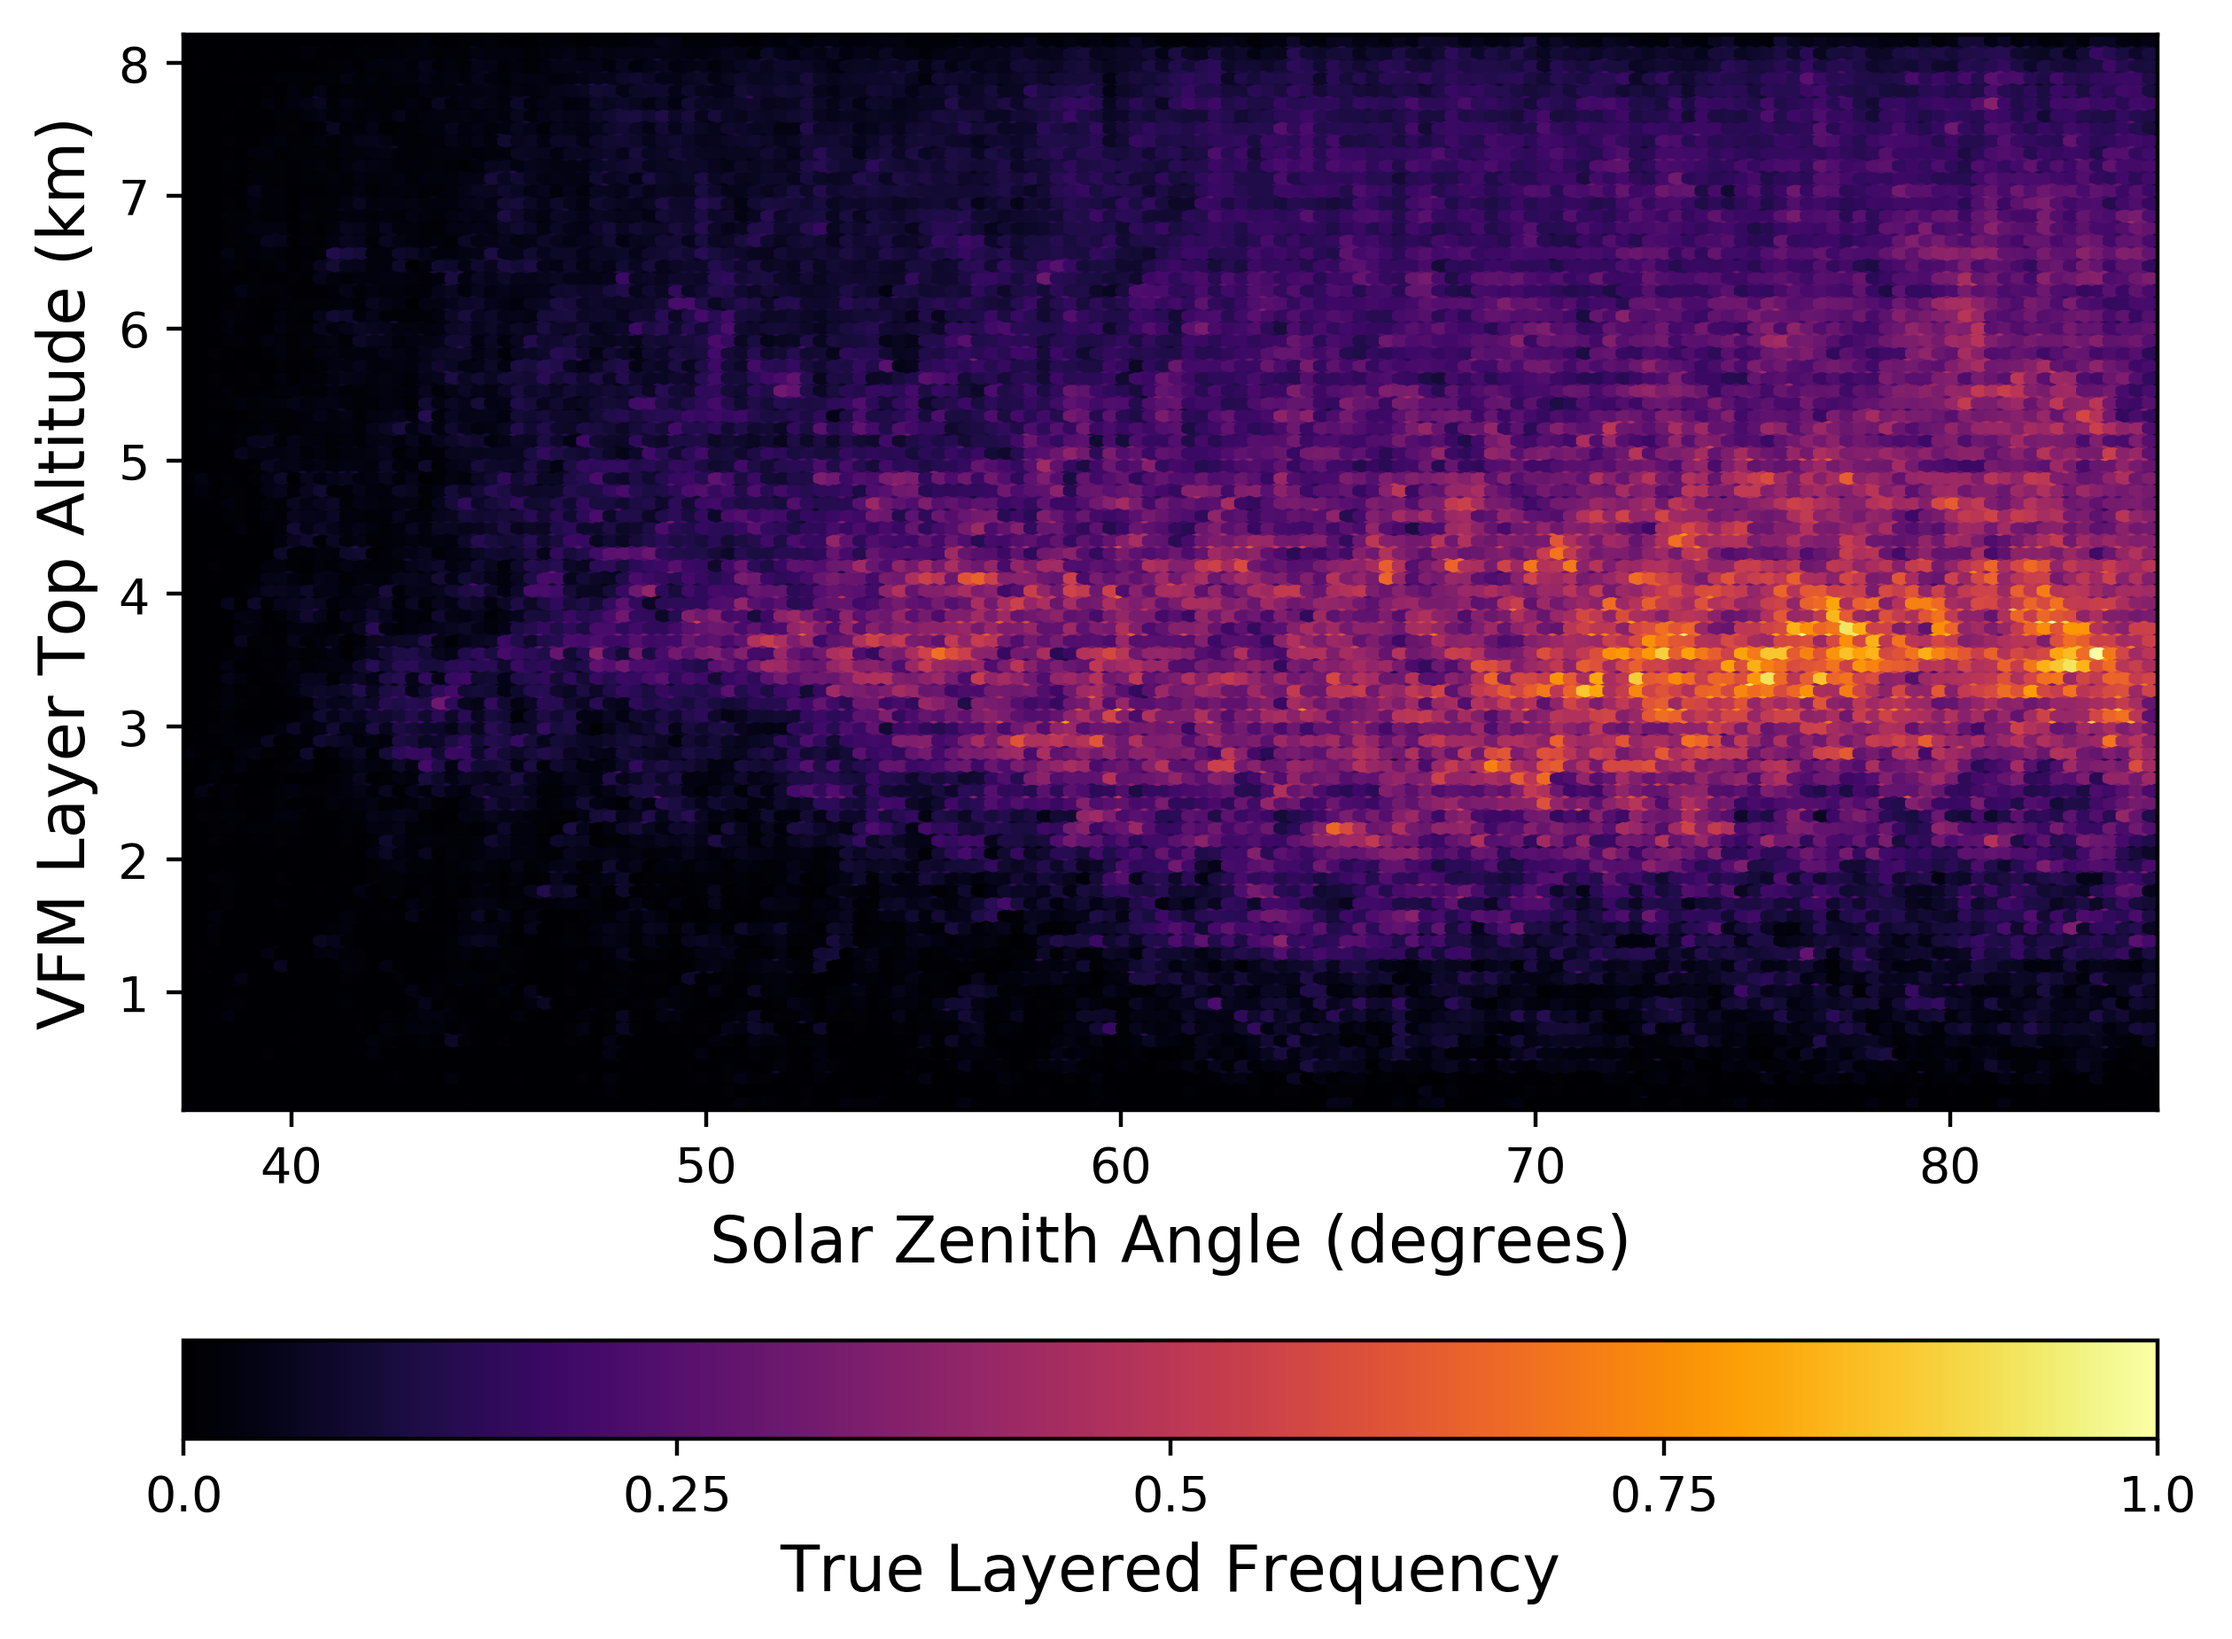
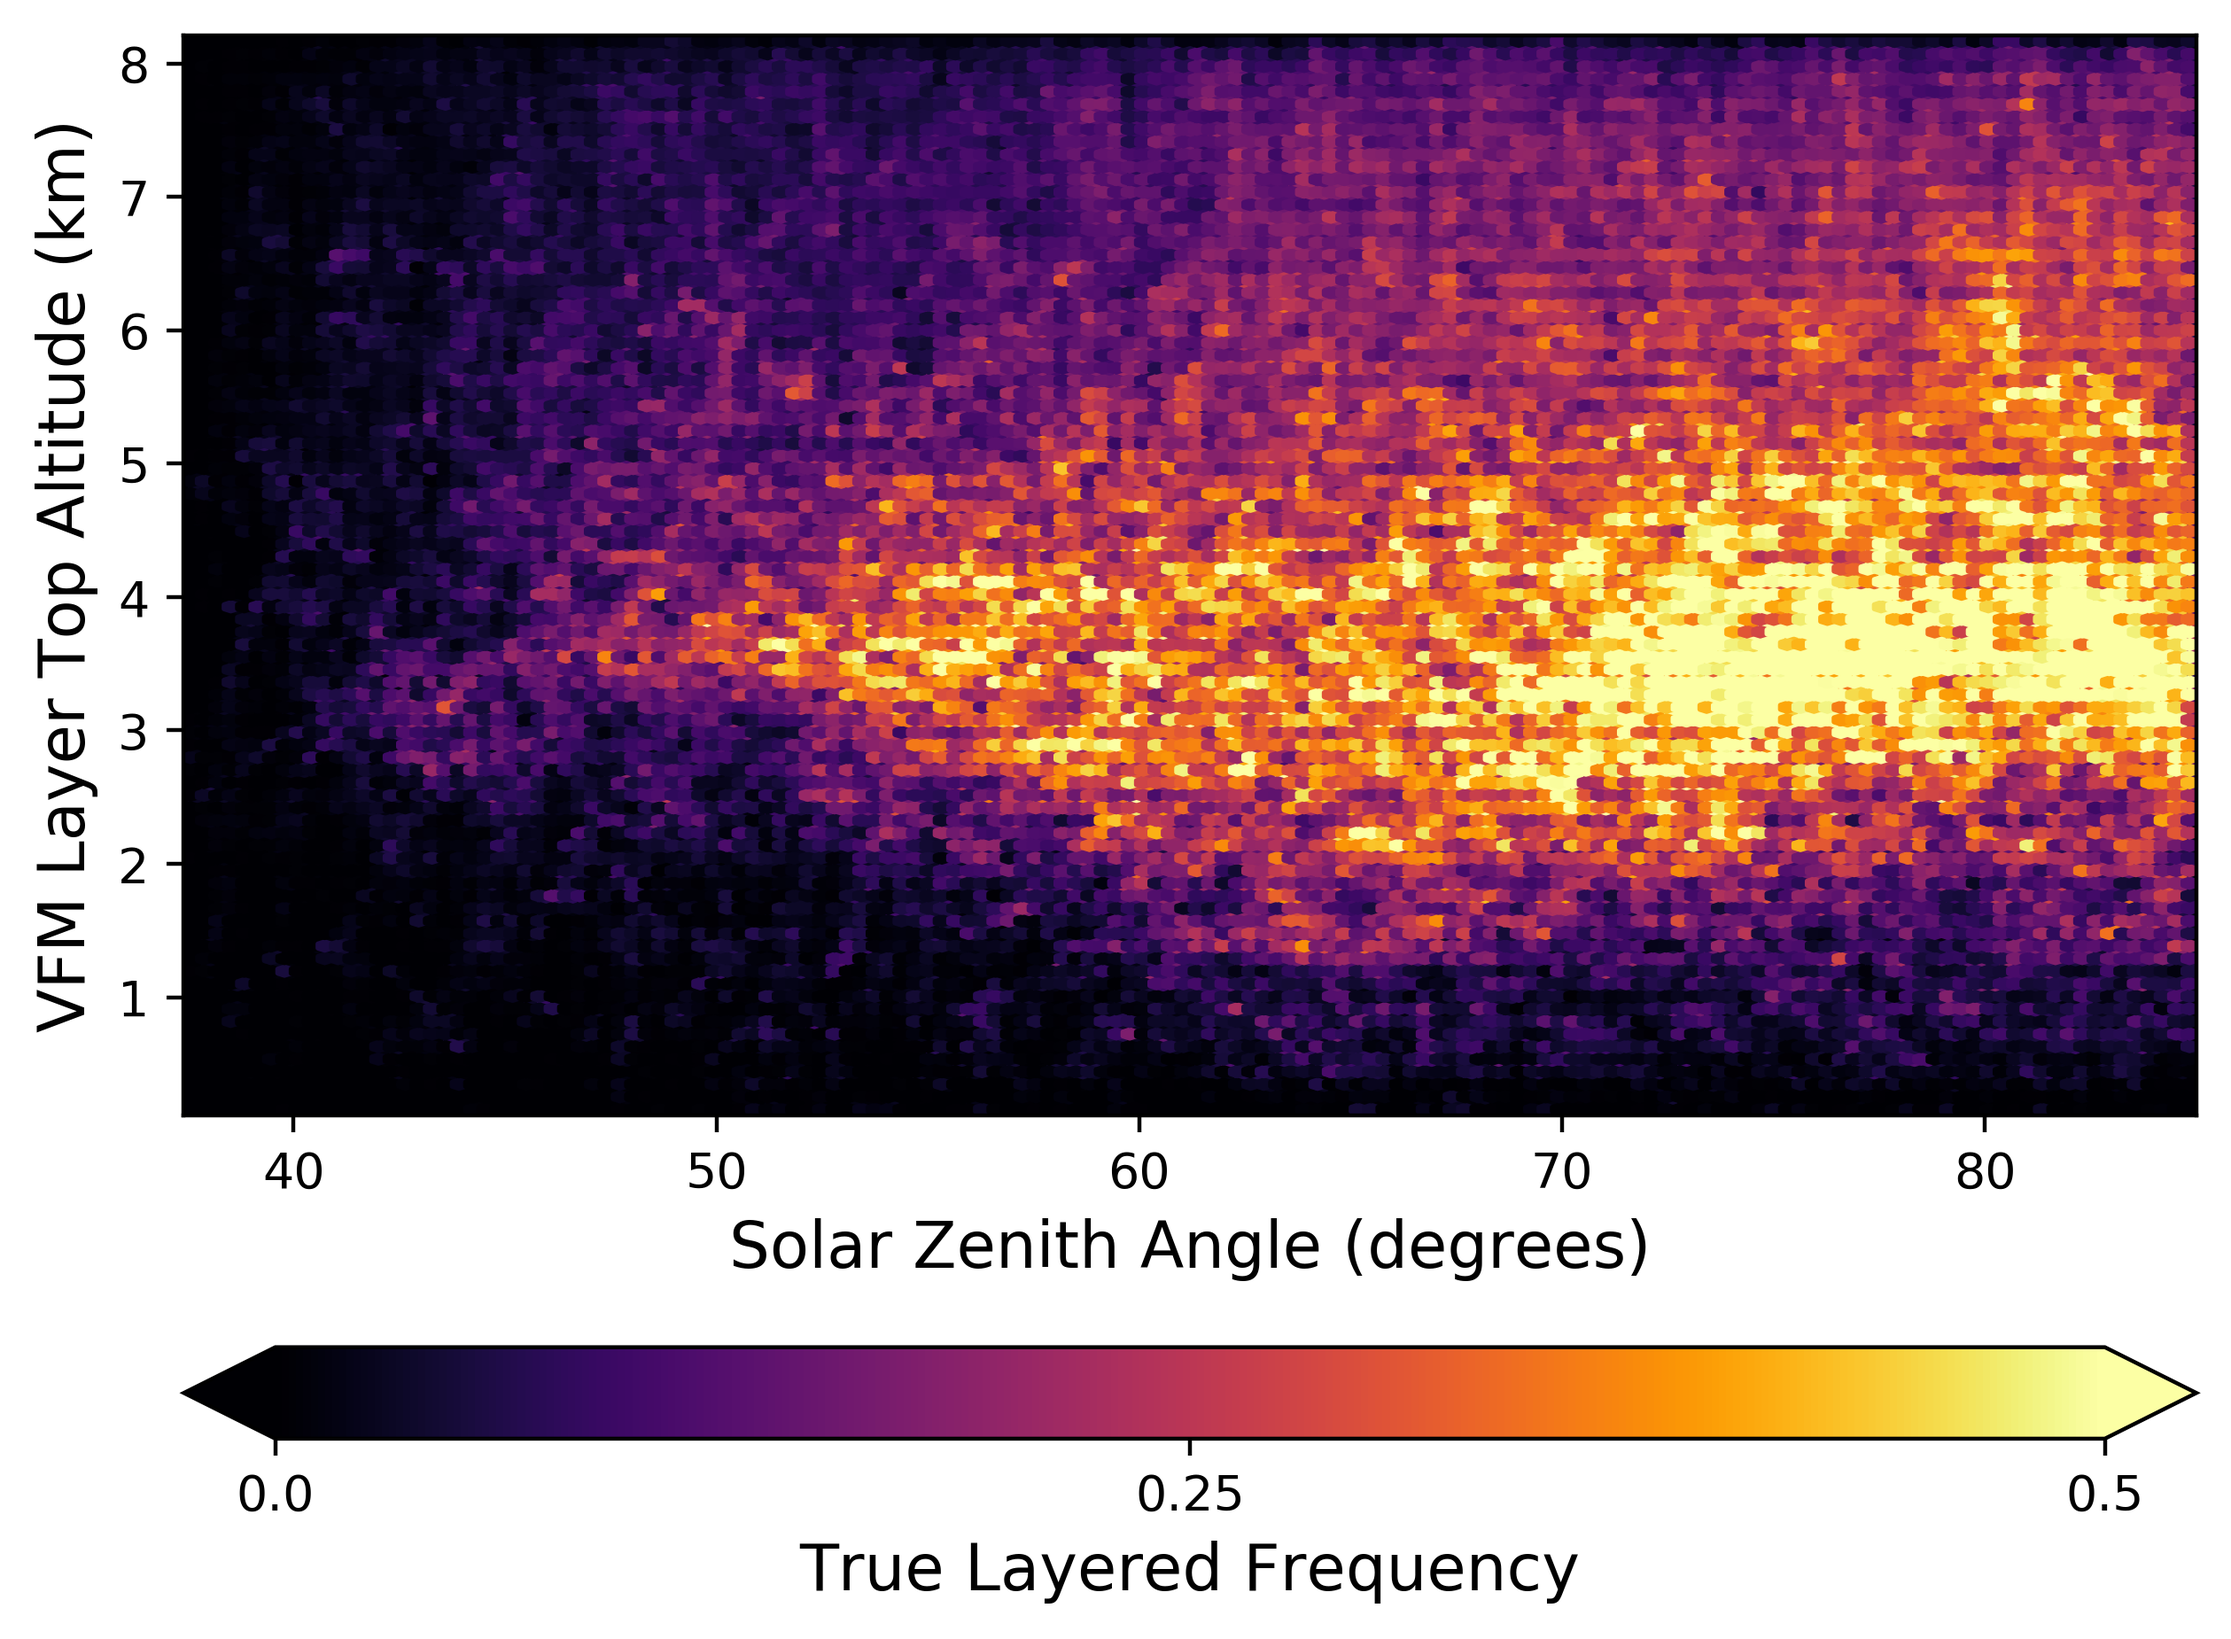
Various Figure Changes.
apparently 3 hours worth of stuff didn't save for some odd reason so I'm pushing it so it doesn't happen again

diff --git a/Task_4/frequencyPlot.py b/Task_4/frequencyPlot.py
@@ -15,53 +15,77 @@ import matplotlib.pyplot as plt
 
 data_path = '.\\Task_4\\'
 
-def openCSV(vd, x, y):
-    df = pd.read_csv(data_path+'\\csvs\\'+'cf_matrix_map_data_85bel_6-9.csv')
+def openCSV(x, y, vd='all', year=None, month=None):
+    df = pd.read_csv(data_path+'\\csvs\\'+'cf_matrix_map_data_85bel_2006-2009.csv')
+    df = df.drop(['day','time'],axis=1)
     
-    df = df.drop(['year', 'month','day','time','Longitude'],axis=1)
-    
-    vddf = df[df.Vd == vd]
+    vddf = df
+    if vd != 'all':
+        vddf = df[df.Vd == vd]
+        print('---VD HERE:', vddf)
+    if year:
+        vddf = vddf[vddf.year == year]
+        print('---YR HERE:', vddf)
+    if month:
+        vddf = vddf[vddf.month == month]
+        print('---MT HERE:', vddf)
    
     xdf = vddf[x].tolist()
     ydf = vddf[y].tolist()
     return xdf, ydf
 
-def sza_ta_falsePlot(vd, x, y):
-    xf, yf = openCSV(vd, x, y)
+def sza_ta_falsePlot(x, y, vd='all', year=None, month=None, gbox=False):
+    xf, yf = openCSV(x, y, vd, year, month)
 
     labels = {
         'SZA' : 'Solar Zenith Angle (degrees)',
         'Top_Alt' : 'VFM Layer Top Altitude (km)',
         'Latitude' : 'Latitude (degrees)',
+        'Longitude' : 'Longitude (degrees)',
+        'all' : 'Pixel Availability',
         'tc' : 'True Clear',
         'tl' : 'True Layered',
         'fl' : 'False Layered',
         'fc' : 'False Clear'
     }
-
+    
     fig, ax = plt.subplots()
     
-    hb2 = ax.hexbin(xf, yf, gridsize=150, cmap='inferno', alpha=0)
-    hb = ax.hexbin(xf, yf, gridsize=150, cmap='inferno', vmax=0.5*hb2.get_array().max())
-    ax.set(xlim=(min(xf), max(xf)), ylim=(min(yf), max(yf)))
+    fig.set_figheight(10)
+    fig.set_figwidth(8)
+
+
+    hb2 = ax.hexbin(xf, yf, gridsize=2000, cmap='inferno', alpha=0)
+    hb = ax.hexbin(xf, yf, gridsize=2000, cmap='inferno', vmax=0.5*hb2.get_array().max())
+    
+    if gbox: ax.set(xlim=(-11, -74), ylim=(60, 84))
+    else: ax.set(xlim=(min(xf), max(xf)), ylim=(min(yf), max(yf)))
     #ax.set_title("False-Clear Frequency", fontsize=18)
     
     #norm = plt.Normalize(0, hb.get_array().max())
     ax.set_ylabel(labels[y], fontsize=13)
     ax.set_xlabel(labels[x], fontsize=13)
-    cb = fig.colorbar(hb, orientation='horizontal', ax=ax)
+    cb = fig.colorbar(hb, orientation='horizontal', ax=ax, extend='both')
     cb.set_ticks(np.linspace(hb.get_array().min(), hb.get_array().max(), 5))
-    cb.set_ticklabels(np.linspace(0, 1, 5))
+    #cb.set_ticklabels(np.linspace(0, 1, 5))
+    cb.set_ticklabels(np.linspace(0, hb.get_array().max(), 5))
     cb.set_label(f'{labels[vd]} Frequency', fontsize=13)
     fig.tight_layout()
     
-    fig.savefig(f'./Task_4/pngs/frequencyPlot_{vd}_{x}_{y}', bbox_inches='tight', dpi=400)
+    #fig.savefig(f'./Task_4/pngs/frequencyPlot_{vd}_{x}_{y}test', bbox_inches='tight', dpi=400)
+    fig.savefig(f'./Task_4/pngs/freqplettesting', bbox_inches='tight', dpi=800)
 
 if __name__ == '__main__':
-    #sza_ta_falsePlot('fc', 'SZA', 'Top_Alt')
+    # sza_ta_falsePlot('fc', 'SZA', 'Top_Alt')
 
-    #sza_ta_falsePlot('tl', 'SZA', 'Top_Alt')
+    # sza_ta_falsePlot('tl', 'SZA', 'Top_Alt')
 
-    sza_ta_falsePlot('tc', 'SZA', 'Latitude')
+    # sza_ta_falsePlot('tc', 'SZA', 'Latitude')
 
-    #sza_ta_falsePlot('fl', 'SZA', 'Latitude')
+    # sza_ta_falsePlot('fl', 'SZA', 'Latitude')
+
+    sza_ta_falsePlot('Longitude', 'Latitude', vd='all', year=None, month=None, gbox=None)
+
+
+
+#TODO add elevation data

diff --git a/Task_4/ConfusionMatrix_SCM_vs_MLay.py b/Task_4/ConfusionMatrix_SCM_vs_MLay.py
@@ -51,13 +51,16 @@ coords = [(-55, 59.5), (-55,67.5), (-60,67.5), (-60,75), (-73.25,75), (-73.25,79
 poly = Polygon(coords)
 
 
-def confuse(eightfivebelow):
+def confuse(eightfivebelow,st_year,ed_year):
     file_name_list = [f for f in listdir(data_path ) if isfile(join(data_path , f))]
     for f in file_name_list:
         st = time.time()
 
         #if not '1001' in f: continue
         #if not '2006-08-0' in f and not '2007-08-0' in f and not '2008-08-0' in f and not'2009-08-0'in f: continue
+        if not any(str(s) in f for s in [*range(st_year, ed_year+1)]): #skips if it is not in year
+            continue
+
         if ( f[11:19] != '333mMLay' ):
                 continue
 
@@ -95,8 +98,8 @@ def confuse(eightfivebelow):
         for index in range(bott, len(lat)):
             if (poly.contains(Point(lon[index], lat[index]))):
                 cor_inds.append(index)
-                if not index == (len(lat)-1) and not (poly.contains(Point(lon[index+1], lat[index+1]))):
-                    break
+                # if not index == (len(lat)-1) and not (poly.contains(Point(lon[index+1], lat[index+1]))):
+                #     break
         if len(cor_inds) < 10:
             print('---------------------SKIPPED!---------------------')
             continue
@@ -277,24 +280,29 @@ def mdToDf():
 
     return map_df
 
+
+def generateCSV(remove_sza_85plus='True', st_year=None, ed_year=None):
+    confuse(remove_sza_85plus,st_year,ed_year)
+
+    print("--- %s seconds ---" % (time.time() - start_time))
+    fdToDf().to_csv(f'./Task_4/csvs/cf_matrix_full_data_85bel_{st_year}-{ed_year}.csv', index=False)
+    
+    mdToDf().to_csv(f'./Task_4/csvs/cf_matrix_map_data_85bel_{st_year}-{ed_year}.csv', index=False)
+
 #-----------------------------------------------------------------------------#
 #-----------------------------------------------------------------------------#
 if __name__ == "__main__":
-    # confuse(False)
-    # print("--- %s seconds ---" % (time.time() - start_time))
 
-    # fdToDf().to_csv('./Task_4/csvs/cf_matrix_full_data.csv', index=False)
+    #Produce for individual years 2006-2009
+    #generateCSV(st_year=2006,ed_year=2006)
+    generateCSV(st_year=2007,ed_year=2007)
+    generateCSV(st_year=2008,ed_year=2008)
+    generateCSV(st_year=2009,ed_year=2009)
+
+    #Produce for all years 2006-2009
+    #generateCSV(st_year=2006,ed_year=2009)
+
     
-    # mdToDf().to_csv('./Task_4/csvs/cf_matrix_map_data.csv', index=False)
-
-
-    # for data that removes 85 and up
-    confuse(True)
-    print("--- %s seconds ---" % (time.time() - start_time))
-
-    fdToDf().to_csv('./Task_4/csvs/cf_matrix_full_data_85bel_6-9.csv', index=False)
-    
-    mdToDf().to_csv('./Task_4/csvs/cf_matrix_map_data_85bel_6-9.csv', index=False)
 
 
     

diff --git a/Inversion_Package/test.py b/Inversion_Package/test.py
@@ -33,9 +33,9 @@ os.chdir('./Inversion_Package/')
 # lt = [6 for x in range(7)]
 # print(lt)
 
-test = np.array([[1,2,3],[4,5,6]])
-test = test+1
-print(test)
+# test = np.array([[1,2,3],[4,5,6]])
+# test = test+1
+# print(test)
 
 #print(np.array(test).flatten())#.flatten())
 
@@ -95,6 +95,7 @@ print(test)
 # print('hello')
 # time.sleep(3)
 # print('hello')
+
 
 
 
@@ -174,3 +175,11 @@ print(test)
 
 #C:/Users/Iraz/Documents/Docs/Programs/Cloud_mask/Inversion_Package/rt_code/rt_code/info/
 #C:\Users\Iraz\Documents\Docs\Programs\Cloud_mask\Inversion_Package\rt_code\rt_code\info\standard.info
+
+
+# ###############################################################################
+# vec_generate_obs time test
+# st = time.time()
+# os.system(f'C:\\msys64\\msys2 bash shell.sh 0 1')
+
+# print(time.time() - st)

diff --git a/Task_4/ConfusionMatrix_SCM_vs_MLay_Plot.py b/Task_4/ConfusionMatrix_SCM_vs_MLay_Plot.py
@@ -92,7 +92,7 @@ def showAvaDay():
     plt.xlim(0,len(flist)-1)
     #plt.xlim(240,365)
 
-    plt.plot(range(len(flist)), flist, linewidth = 2, color='grey', label='85_above', alpha=0.7)
+    plt.plot(range(len(flist)), flist, linewidth = 2, color='grey', label='SZA > 85', alpha=0.7)
 
     tp, mon = openCSV(csv_old_85)[4], openCSV(csv_old_85)[5]
 
@@ -120,7 +120,7 @@ def showAvaDay():
     plt.xlim(0,len(flist)-1)
     #plt.xlim(240,365)
 
-    plt.plot(range(len(flist)), flist, linewidth = 2, color='red', label='85_below')
+    plt.plot(range(len(flist)), flist, linewidth = 2, color='red', label='SZA <= 85')
 
     plt.legend(loc='best', fontsize=20)
 

diff --git a/Task_4/ConfusionMatrix_SCM_vs_MLay_vs_CM.py b/Task_4/ConfusionMatrix_SCM_vs_MLay_vs_CM.py
@@ -102,8 +102,8 @@ def confuse(eightfivebelow):
         for index in range(bott, len(lat)):
             if (poly.contains(Point(lon[index], lat[index]))):
                 cor_inds.append(index)
-                if not index == (len(lat)-1) and not (poly.contains(Point(lon[index+1], lat[index+1]))):
-                    break
+                # if not index == (len(lat)-1) and not (poly.contains(Point(lon[index+1], lat[index+1]))):
+                #     break
         if len(cor_inds) < 10:
             print('---------------------SKIPPED!---------------------')
             continue

diff --git a/Inversion_Package/example_inversions/example_fit_multi_datasets.py b/Inversion_Package/example_inversions/example_fit_multi_datasets.py
@@ -26,6 +26,7 @@ def gauss_dataset(params, i, x):
     amp = params['amp_%i' % (i+1)]
     cen = params['cen_%i' % (i+1)]
     sig = params['sig_%i' % (i+1)]
+    
     return gauss(x, amp, cen, sig)
 
 
@@ -39,6 +40,7 @@ def objective(params, x, data):
         resid[i, :] = data[i, :] - gauss_dataset(params, i, x)
 
     # now flatten this to a 1D array, as minimize() needs
+    print(params['sig_%i' % (i+1)].value)
     return resid.flatten()
 
 

diff --git a/Task_1_2_3/MODIS_orbit_features_enhanced.py b/Task_1_2_3/MODIS_orbit_features_enhanced.py
@@ -41,7 +41,7 @@ import os
 #             [[1,4,3], 1], 
 #             [[3,6,7], 0], 
 #             [[7,2,1], 0]]
-bands_used = [[[7,5], 0]]
+bands_used = [[[7,6,3], 0]]
             
 # References:
 # https://earthdata.nasa.gov/sites/default/files/field/document/MODIS_True_Color.pdf

diff --git a/Inversion_Package/fit_barometric.py b/Inversion_Package/fit_barometric.py
@@ -105,7 +105,7 @@ result = mini.leastsq()
 print(result.params)
 #print('\n\n\n',result.__dict__)
 report_fit(result)
-params.pretty_print()
+
 
 fit = get_residual(result.params, heights, ptrop)
 
